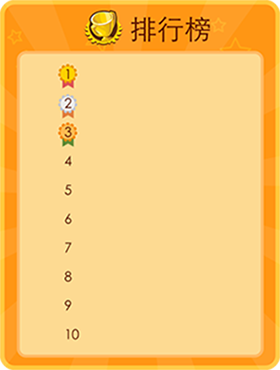
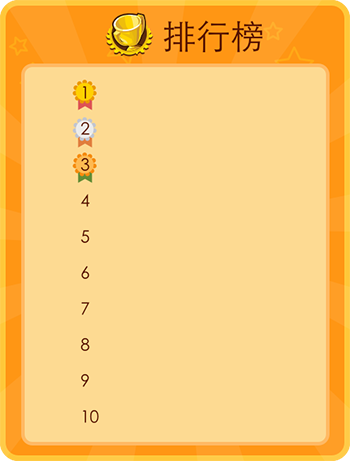
third version

diff --git a/app-stock/bear/src/playScene.js b/app-stock/bear/src/playScene.js
@@ -376,20 +376,22 @@ var playLayer = cc.Layer.extend({
 		gameOverLayer.addChild(overSprite, 1);
 
 		var again = new cc.MenuItemImage("#again.png", "#again.png", function() {
-			this.sendScore();
+			
 			cc.director.runScene(new playScene());
 		}, this);
 		again.attr({
-			x: -(gameOverLayer.width - overSprite.width) / 2 - 10,
-			y: 15
+			x: -(gameOverLayer.width - overSprite.width) / 2-80 ,
+			y: -10,
+			scale:1.3
 		});
 		var gameover = new cc.MenuItemImage("#gameOver.png", "#gameOver.png", function() {
-			this.sendScore();
+			
 			cc.director.runScene(new startScene());
 		}, this);
 		gameover.attr({
-			x: (gameOverLayer.width - overSprite.width) / 2 + 10,
-			y: 15
+			x: (gameOverLayer.width - overSprite.width) / 2+80 ,
+			y: -10,
+			scale:1.3
 		});
 		var overMenu = new cc.Menu(again, gameover);
 
@@ -397,14 +399,14 @@ var playLayer = cc.Layer.extend({
 		overMenu.x = gameOverLayer.width / 2;
 		gameOverLayer.addChild(overMenu, 1);
 
-		var text = new cc.LabelTTF("你已获得" + this.scroe + "分", "Times New Roman", 20);
+		var text = new cc.LabelTTF("你已获得" + this.scroe + "分", "Times New Roman", 26);
 		text.attr({
 			x: overSprite.width / 2,
 			y: overSprite.height / 2 + 30
 		});
 		text.setFontFillColor(cc.color(0, 0, 0));
 		overSprite.addChild(text, 1);
-
+          this.sendScore();
 	},
 	createExplode: function() { //爆炸效果动画
 		var frames = [];

diff --git a/app-stock/bear/src/startScene.js b/app-stock/bear/src/startScene.js
@@ -103,14 +103,14 @@ var startLayer = cc.Layer.extend({
          
 		for (var i in callbackJson) {
 			if (i < 10) {
-				callbackJsonName[i]= new cc.LabelTTF("" + callbackJson[i].nick_name, "Thonburi", 16);
-				callbackJsonName[i].x = 140;
-				callbackJsonName[i].y = (rank.height - 75) - i * 30;
+				callbackJsonName[i]= new cc.LabelTTF("" + callbackJson[i].nick_name, "Thonburi", 18);
+				callbackJsonName[i].x = 170;
+				callbackJsonName[i].y = (rank.height - 100) - i * 35;
 				callbackJsonName[i].setFontFillColor(cc.color(0, 0, 0));
 				rank.addChild(callbackJsonName[i], 5);
-				callbackJsonScore[i] = new cc.LabelTTF("" + callbackJson[i].score, "Thonburi", 16);
-				callbackJsonScore[i].x = 220;
-				callbackJsonScore[i].y = (rank.height - 75) - i * 30;
+				callbackJsonScore[i] = new cc.LabelTTF("" + callbackJson[i].score, "Thonburi", 18);
+				callbackJsonScore[i].x = 270;
+				callbackJsonScore[i].y = (rank.height - 100) - i * 35;
 				callbackJsonScore[i].setFontFillColor(cc.color(0, 0, 0));
 				rank.addChild(callbackJsonScore[i], 5);
 			}

diff --git a/app-stock/bear/index.html b/app-stock/bear/index.html
@@ -4,7 +4,7 @@
     <meta charset="utf-8">
     <title>Cocos2d-html5 Hello World test</title>
     <link rel="icon" type="image/GIF" href="res/favicon.ico"/>
-    <meta name="viewport" content="width=321,user-scalable=no" />
+    <meta name="viewport" content="width=device-width,user-scalable=no" />
     <meta name="apple-mobile-web-app-capable" content="yes"/>
     <meta name="full-screen" content="yes"/>
     <meta name="screen-orientation" content="portrait"/>
